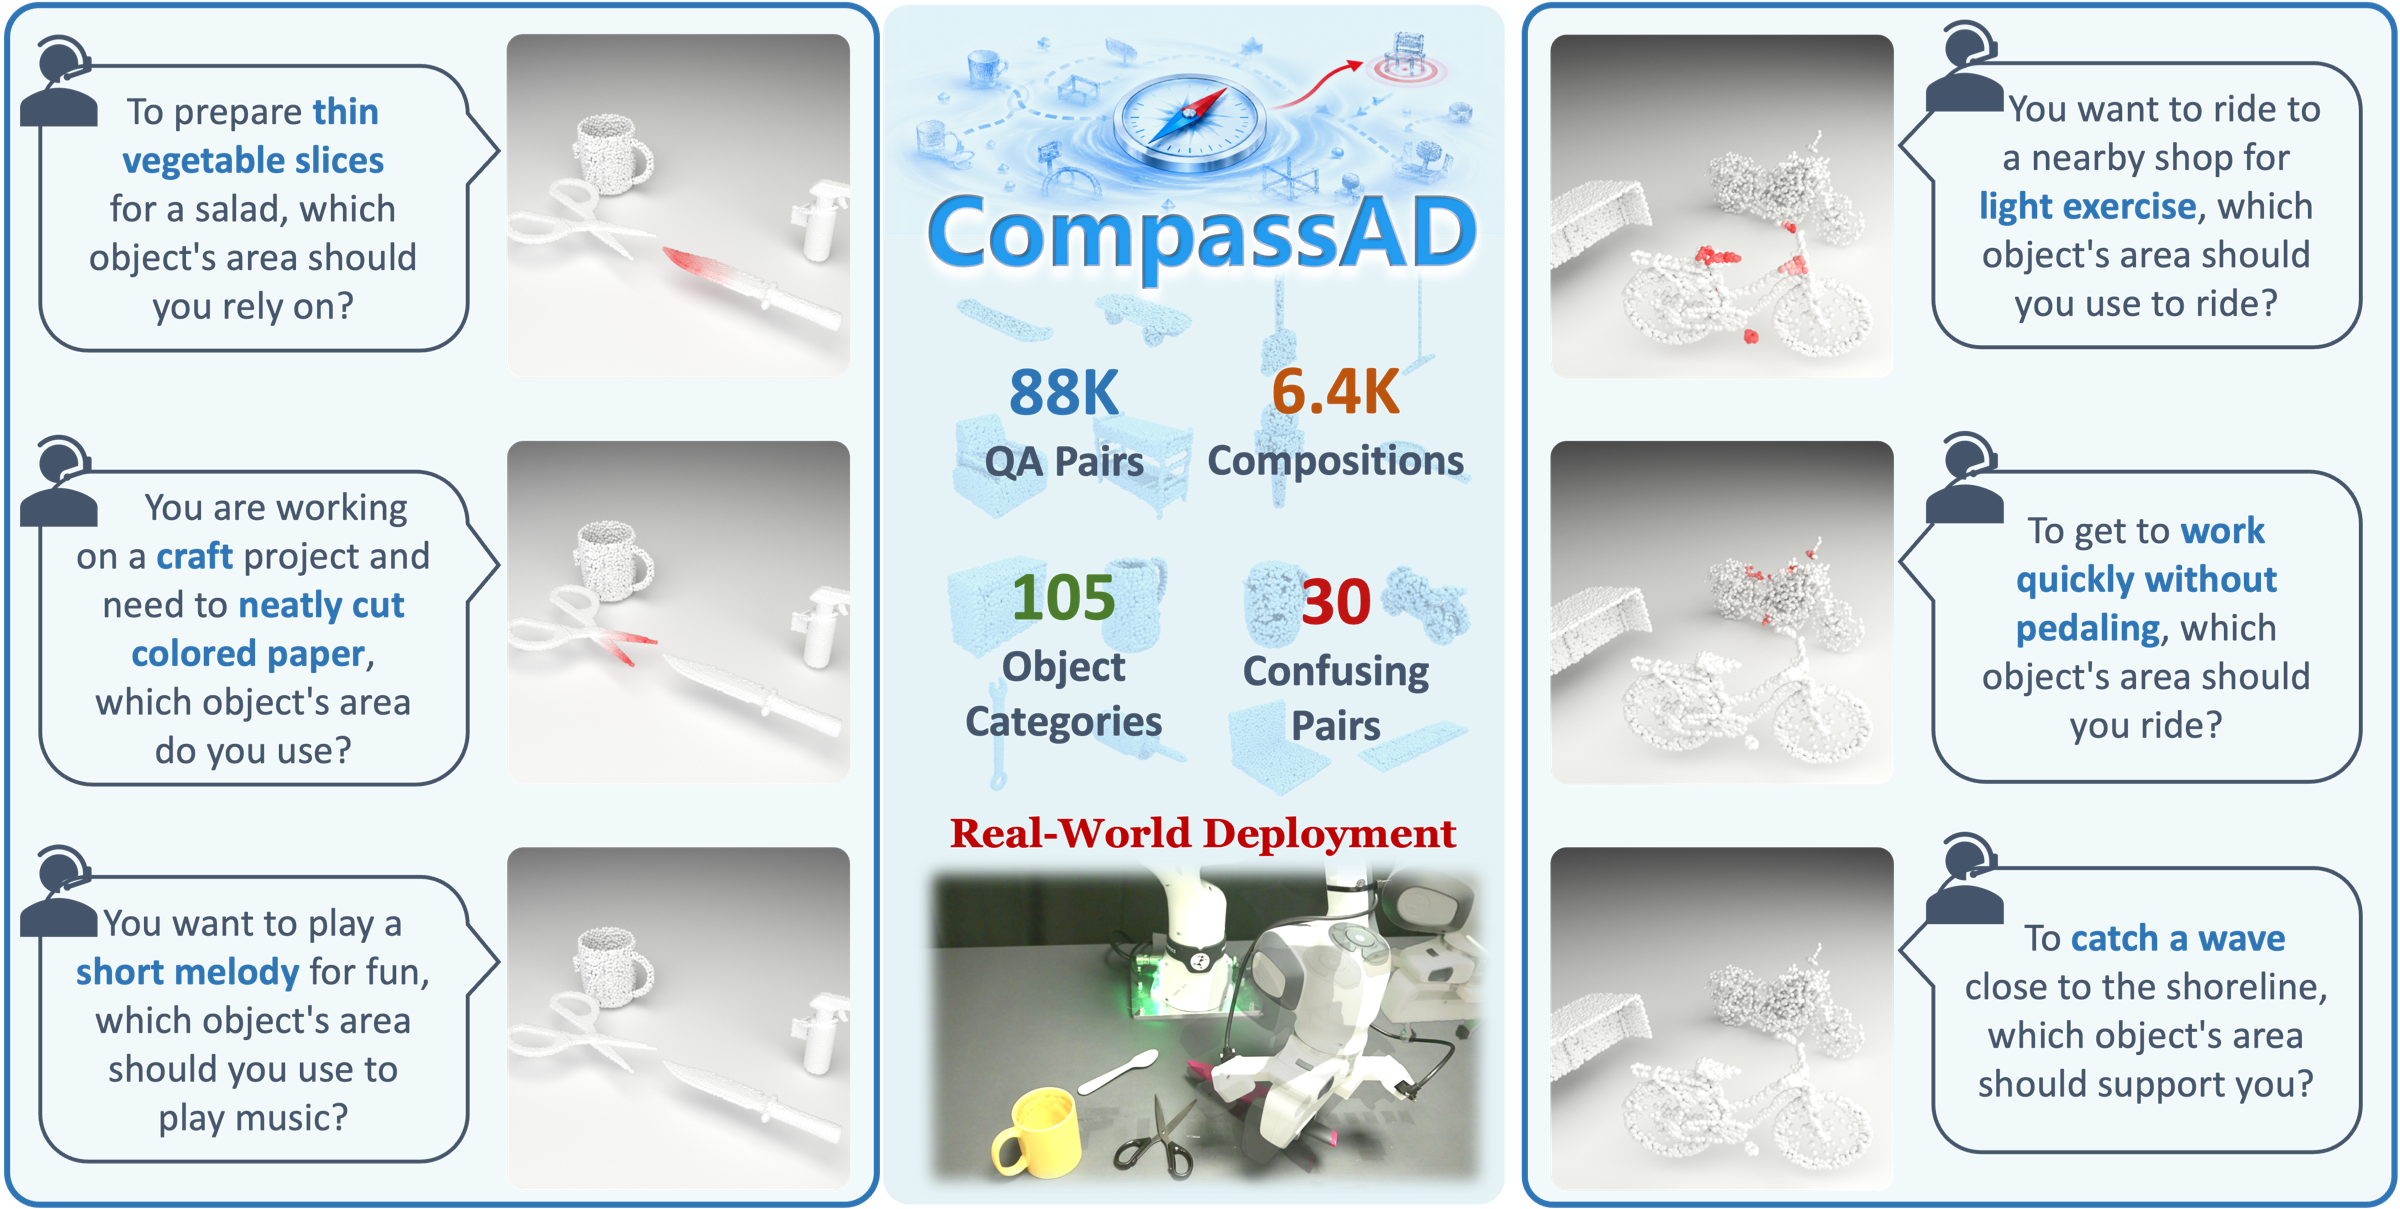
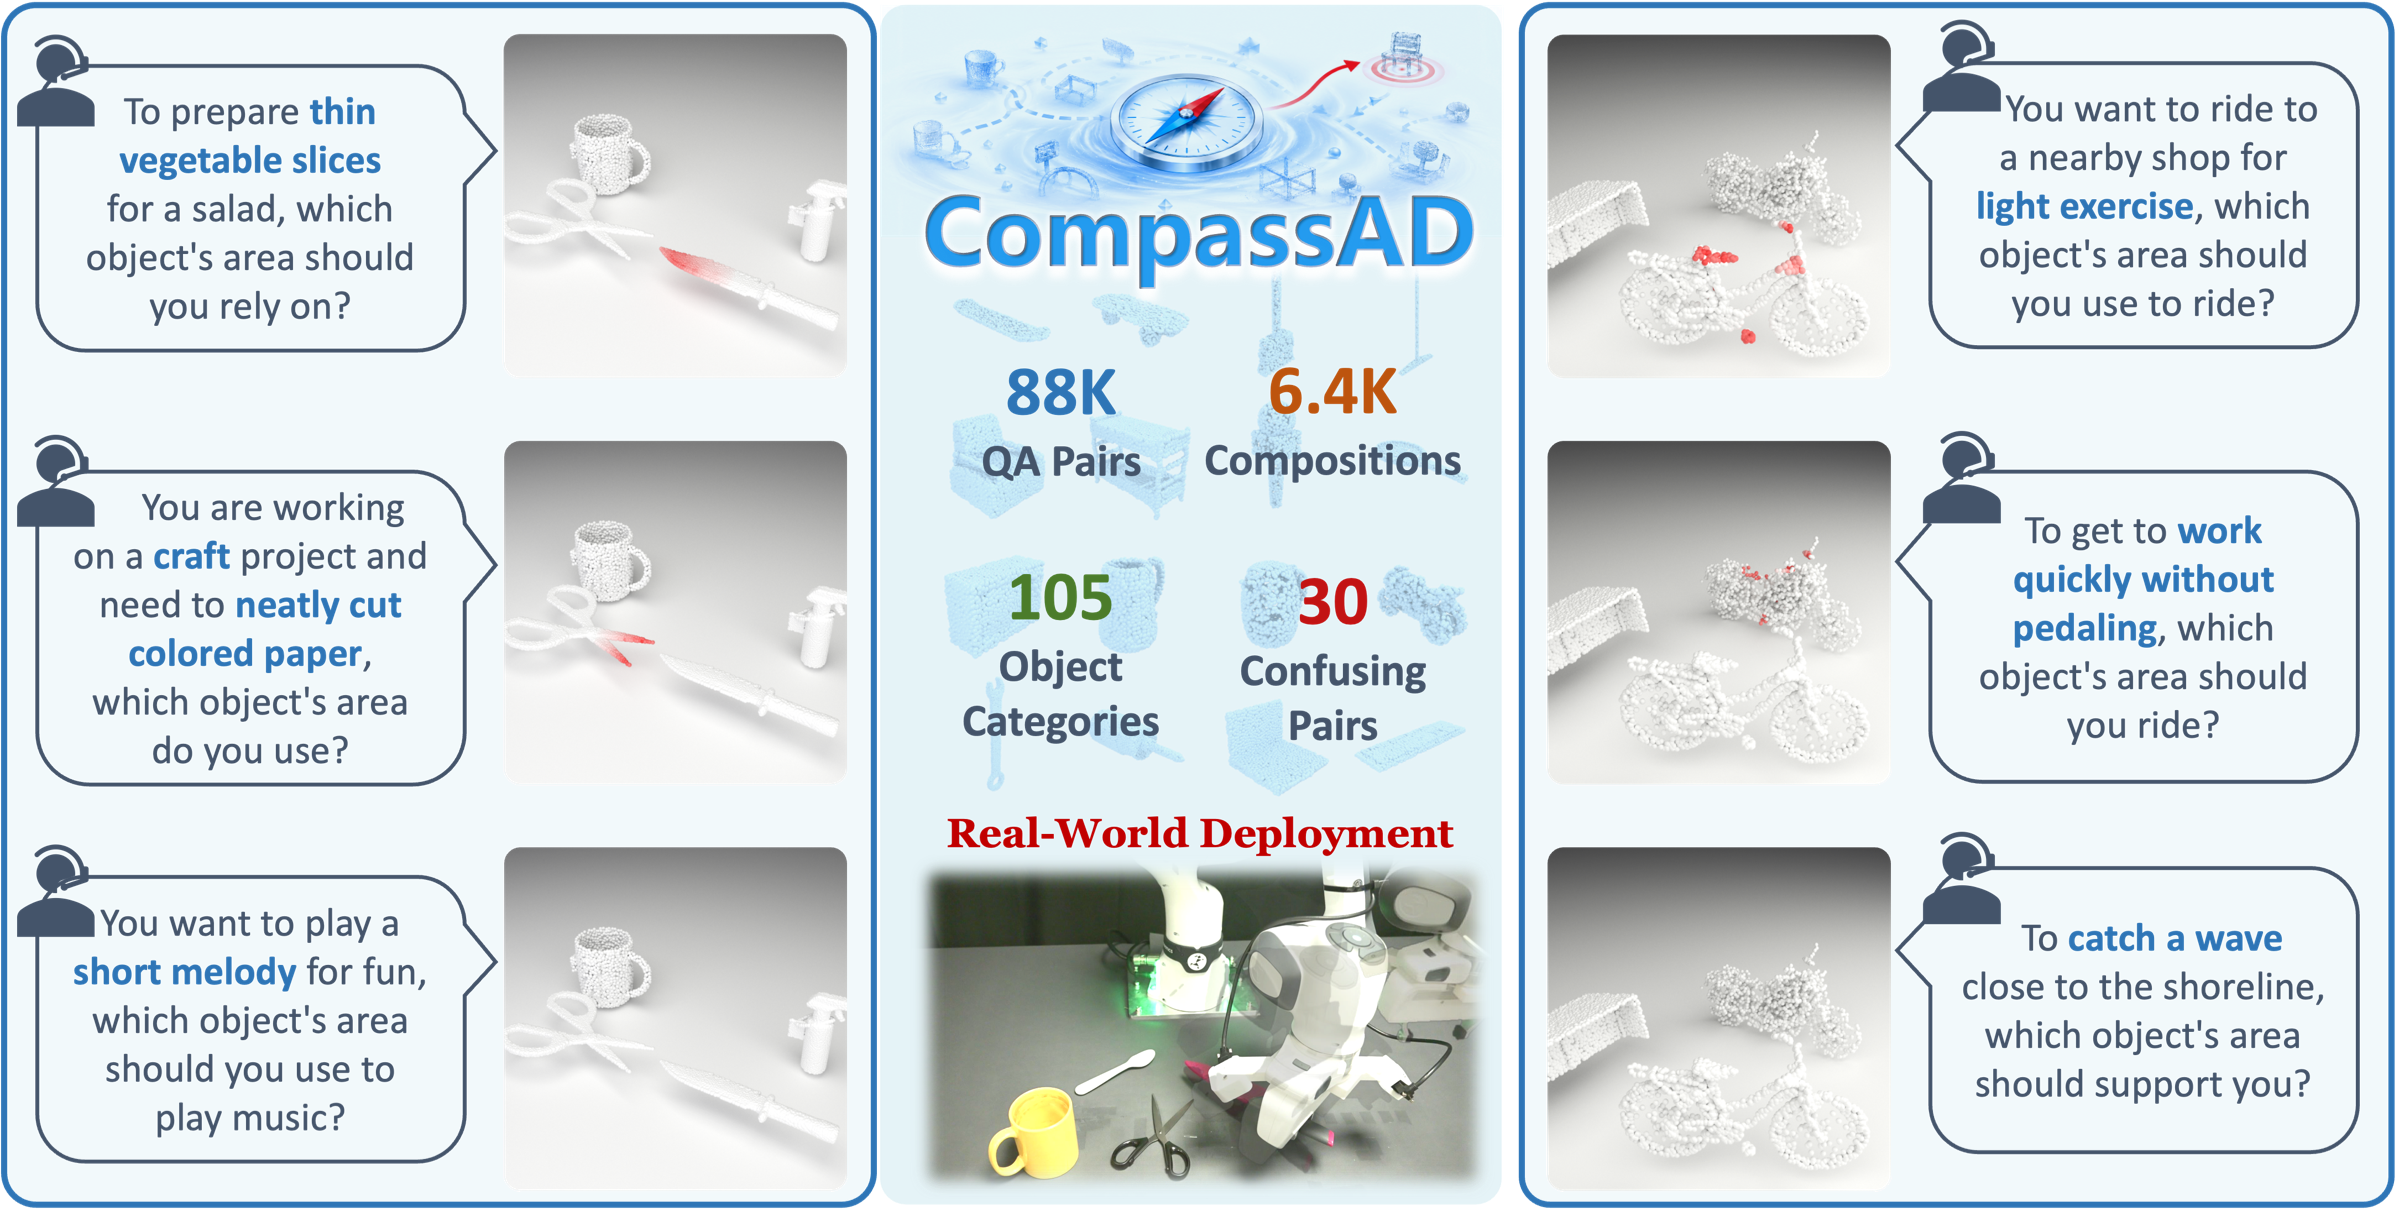
fix: publication teasers fill frame perfectly — trim PNG whitespace + match aspect-ratio
- PIL-trim baked-in white margins from teaser PNGs (a2a saved 184+218px)
- Container width 280→320 for stronger visual weight
- Container aspect-ratio now follows trimmed image, no contain/cover whitespace
- Drop gray padding+background — figure IS the frame
- Cache-bust ?v=14

diff --git a/index.html b/index.html
@@ -9,7 +9,7 @@
   <link rel="preconnect" href="https://fonts.googleapis.com" />
   <link rel="preconnect" href="https://fonts.gstatic.com" crossorigin />
   <link href="https://fonts.googleapis.com/css2?family=Hedvig+Letters+Serif&family=Instrument+Sans:wght@400;500;600;700&display=swap" rel="stylesheet" />
-  <link rel="stylesheet" href="style.css?v=12" />
+  <link rel="stylesheet" href="style.css?v=14" />
 </head>
 <body>
 
@@ -135,8 +135,8 @@
       <h2>Publications</h2>
 
       <article class="pub">
-        <div class="pub-teaser pub-teaser--video" data-video="assets/mars_video.mp4?v=12">
-          <img class="teaser-still" src="assets/teaser_mars.png?v=12" alt="MARS Policy teaser" />
+        <div class="pub-teaser pub-teaser--video" style="aspect-ratio: 893 / 441" data-video="assets/mars_video.mp4?v=13">
+          <img class="teaser-still" src="assets/teaser_mars.png?v=13" alt="MARS Policy teaser" />
           <video class="teaser-video" preload="none" playsinline loop muted></video>
         </div>
         <div class="pub-body">
@@ -162,7 +162,7 @@
       </article>
 
       <article class="pub">
-        <img class="pub-teaser" src="assets/teaser_fwm.png" alt="Feedback World Model teaser" />
+        <img class="pub-teaser" src="assets/teaser_fwm.png?v=13" alt="Feedback World Model teaser" />
         <div class="pub-body">
           <div class="pub-venue venue--gray">Under Review</div>
           <h3 class="pub-title">Feedback World Model Enables Precise Guidance of Diffusion Policy</h3>
@@ -187,7 +187,7 @@
       </article>
 
       <article class="pub">
-        <img class="pub-teaser" src="assets/teaser_compassad.png" alt="CompassAD teaser" />
+        <img class="pub-teaser" src="assets/teaser_compassad.png?v=13" alt="CompassAD teaser" />
         <div class="pub-body">
           <div class="pub-venue venue--gray">Under Review</div>
           <h3 class="pub-title">CompassAD: Intent-Driven 3D Affordance Grounding in Functionally Competing Objects</h3>
@@ -213,8 +213,8 @@
       </article>
 
       <article class="pub">
-        <div class="pub-teaser pub-teaser--video" data-video="assets/a2a_video.mp4">
-          <img class="teaser-still" src="assets/a2a_fig.png" alt="A2A Flow Matching teaser" />
+        <div class="pub-teaser pub-teaser--video" style="aspect-ratio: 2020 / 774" data-video="assets/a2a_video.mp4?v=13">
+          <img class="teaser-still" src="assets/a2a_fig.png?v=13" alt="A2A Flow Matching teaser" />
           <video class="teaser-video" preload="none" playsinline loop muted></video>
         </div>
         <div class="pub-body">

diff --git a/style.css b/style.css
@@ -235,14 +235,14 @@ a:hover { text-decoration: underline; }
   margin-bottom: 40px;
 }
 .pub-teaser {
-  width: 264px;
-  height: 148px;
-  object-fit: contain;
-  padding: 6px;
+  width: 320px;
+  height: auto;
+  display: block;
   border-radius: 4px;
   flex-shrink: 0;
-  background: #f5f5f4;
+  background: transparent;
   border: 1px solid #ececec;
+  align-self: flex-start;
 }
 .pub-body { flex: 1; min-width: 0; }
 .pub-venue {
@@ -298,14 +298,15 @@ a:hover { text-decoration: underline; }
 .pub-teaser--video {
   position: relative;
   overflow: hidden;
-  background: #f5f5f4;
+  background: transparent;
   border: 1px solid #ececec;
   border-radius: 4px;
-  width: 264px;
-  height: 148px;
-  padding: 6px;
+  width: 320px;
+  height: auto;
+  padding: 0;
   flex-shrink: 0;
   cursor: pointer;
+  align-self: flex-start;
 }
 .pub-teaser--video .teaser-still,
 .pub-teaser--video .teaser-video {
@@ -313,7 +314,7 @@ a:hover { text-decoration: underline; }
   inset: 0;
   width: 100%;
   height: 100%;
-  object-fit: contain;
+  object-fit: cover;
   display: block;
 }
 .pub-teaser--video .teaser-video {
@@ -435,7 +436,6 @@ a:hover { text-decoration: underline; }
   .pub-teaser--video {
     width: 100%;
     height: auto;
-    aspect-ratio: 16/9;
   }
   .pub-title { font-size: 18px; }
   .pub-authors { font-size: 14px; }
